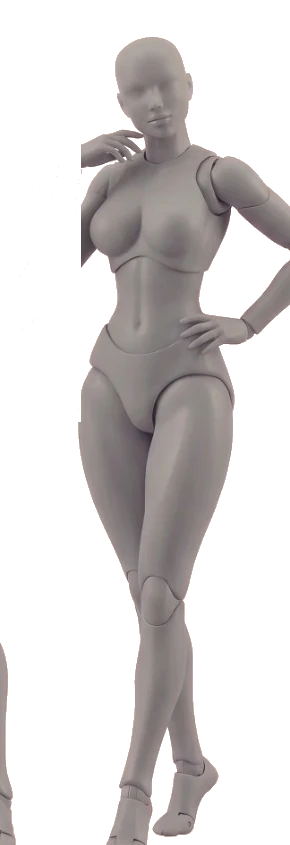
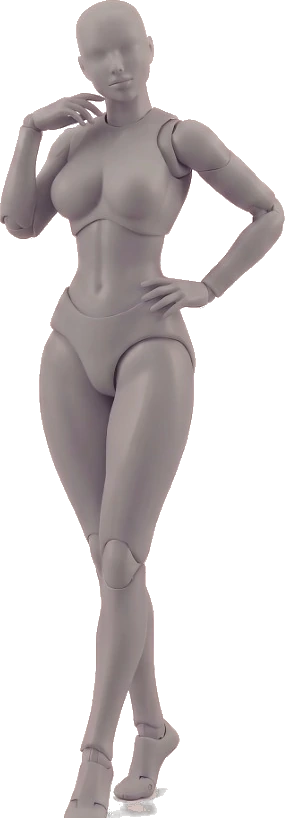
feat(atelier): update 'Tu Lienzo' title, remove stick-figure SVGs for 3D live viewer, and integrate defringed edge-perfect individual poses

diff --git a/index.html b/index.html
@@ -18,7 +18,7 @@
     <!-- Calendly Widget CSS -->
     <link href="https://assets.calendly.com/assets/external/widget.css" rel="stylesheet">
     <!-- Custom CSS -->
-    <link rel="stylesheet" href="styles.css?v=108">
+    <link rel="stylesheet" href="styles.css?v=109">
 </head>
 <body>
 
@@ -63,40 +63,20 @@
             <!-- Columna Izquierda: Visualizador (Avatar + Stats) -->
             <div class="gamified-visualizer">
                 <div class="visualizer-header">
-                    <h3>Tu Lienzo de Autor</h3>
+                    <h3>Tu Lienzo</h3>
                 </div>
                 
-                <!-- Avatar SVG Contours -->
+                <!-- Visualizador Anatómico 3D de Alta Fidelidad -->
                 <div class="avatar-container">
-                    <div class="avatar-tabs">
-                        <button class="avatar-tab active" data-gender="neutral">Neutro</button>
-                        <button class="avatar-tab" data-gender="female">Femenino</button>
-                        <button class="avatar-tab" data-gender="male">Masculino</button>
+                    <div class="avatar-tabs" id="mannequin-view-tabs">
+                        <button class="avatar-tab active" data-view="front">Frente</button>
+                        <button class="avatar-tab" data-view="back">Espalda</button>
+                        <button class="avatar-tab" data-view="left">Perfil Izq.</button>
+                        <button class="avatar-tab" data-view="right">Perfil Der.</button>
                     </div>
-                    <div class="avatar-svg-wrapper" id="avatar-svg-wrapper">
-                        <svg viewBox="0 0 300 350" class="avatar-svg" id="avatar-svg">
-                            <!-- FRONT VIEW -->
-                            <g class="svg-avatar-view front-view">
-                                <circle cx="80" cy="40" r="14" class="zone-path" data-zone="cabeza" />
-                                <path d="M 56,70 Q 80,66 104,70" class="zone-path" data-zone="hombro" />
-                                <path d="M 64,78 L 96,78 L 92,125 L 68,125 Z" class="zone-path fill-zone" data-zone="pecho" />
-                                <path d="M 68,127 L 92,127 L 88,170 L 72,170 Z" class="zone-path fill-zone" data-zone="costillas" />
-                                <path d="M 52,70 C 46,110 40,150 36,190" class="zone-path" data-zone="brazo" />
-                                <path d="M 108,70 C 114,110 120,150 126,190" class="zone-path" data-zone="brazo" />
-                                <path d="M 72,175 C 70,220 68,265 66,310" class="zone-path" data-zone="pierna" />
-                                <path d="M 88,175 C 90,220 92,265 94,310" class="zone-path" data-zone="pierna" />
-                            </g>
-                            <!-- BACK VIEW -->
-                            <g class="svg-avatar-view back-view">
-                                <circle cx="220" cy="40" r="14" class="zone-path" data-zone="cabeza" />
-                                <path d="M 196,70 Q 220,66 244,70" class="zone-path" data-zone="hombro" />
-                                <path d="M 204,78 L 236,78 L 230,170 L 210,170 Z" class="zone-path fill-zone" data-zone="espalda" />
-                                <path d="M 192,70 C 186,110 180,150 174,190" class="zone-path" data-zone="brazo" />
-                                <path d="M 248,70 C 254,110 260,150 266,190" class="zone-path" data-zone="brazo" />
-                                <path d="M 212,175 C 210,220 208,265 206,310" class="zone-path" data-zone="pierna" />
-                                <path d="M 228,175 C 230,220 232,265 234,310" class="zone-path" data-zone="pierna" />
-                            </g>
-                        </svg>
+                    <div class="mannequin-viewer-box" id="mannequin-viewer-box">
+                        <img src="images/mannequins/mannequin-male-front.webp" alt="Visualización Anatómica" class="mannequin-live-view" id="mannequin-live-view">
+                        <div class="mannequin-zone-glow" id="mannequin-zone-glow"></div>
                     </div>
                 </div>
                 
@@ -142,7 +122,7 @@
                                 <div class="silhouette-card" data-gender="male" id="card-silhouette-male">
                                     <div class="card-radio-indicator"></div>
                                     <div class="silhouette-img-wrapper">
-                                        <img src="images/mannequins/mannequin-male-front.webp" alt="Maniquí Masculino Cuerpo Completo" class="silhouette-mannequin-img">
+                                        <img src="images/mannequins/select-male.webp" alt="Maniquí Masculino Postura Confianza" class="silhouette-mannequin-img">
                                     </div>
                                     <h4 class="silhouette-name">Masculino</h4>
                                     <span class="silhouette-posture-tag">CONFIANZA</span>
@@ -153,7 +133,7 @@
                                 <div class="silhouette-card" data-gender="female" id="card-silhouette-female">
                                     <div class="card-radio-indicator"></div>
                                     <div class="silhouette-img-wrapper">
-                                        <img src="images/mannequins/mannequin-female-front.webp" alt="Maniquí Femenino Cuerpo Completo" class="silhouette-mannequin-img">
+                                        <img src="images/mannequins/select-female.webp" alt="Maniquí Femenino Postura Elegancia" class="silhouette-mannequin-img">
                                     </div>
                                     <h4 class="silhouette-name">Femenino</h4>
                                     <span class="silhouette-posture-tag">ELEGANCIA</span>
@@ -164,7 +144,7 @@
                                 <div class="silhouette-card" data-gender="neutral" id="card-silhouette-neutral">
                                     <div class="card-radio-indicator"></div>
                                     <div class="silhouette-img-wrapper">
-                                        <img src="images/mannequins/mannequin-neutral-front.webp" alt="Maniquí No Binario / Neutro Cuerpo Completo" class="silhouette-mannequin-img">
+                                        <img src="images/mannequins/select-neutral.webp" alt="Maniquí No Binario / Neutro Postura Equilibrio" class="silhouette-mannequin-img">
                                     </div>
                                     <h4 class="silhouette-name">No Binario / Neutro</h4>
                                     <span class="silhouette-posture-tag">EQUILIBRIO</span>
@@ -1631,6 +1611,6 @@
     <!-- Calendly Widget JS -->
     <script type="text/javascript" src="https://assets.calendly.com/assets/external/widget.js"></script>
     <!-- Custom JS -->
-    <script src="script.js?v=108"></script>
+    <script src="script.js?v=109"></script>
 </body>
 </html>

diff --git a/script.js b/script.js
@@ -1524,15 +1524,18 @@ document.addEventListener('DOMContentLoaded', () => {
         });
     }
 
-    // Swap SVG contours based on selected gender
+    let currentMannequinView = 'front';
+
+    function updateLiveMannequin() {
+        const liveImg = document.getElementById('mannequin-live-view');
+        if (!liveImg) return;
+        const g = gameState.gender || 'male';
+        liveImg.src = `images/mannequins/mannequin-${g}-${currentMannequinView}.webp`;
+    }
+
+    // Swap 3D Mannequin based on selected gender
     function swapAvatarSilhouette(gender) {
-        const svgWrapper = document.getElementById('avatar-svg-wrapper');
-        if (!svgWrapper) return;
-
         gameState.gender = gender;
-
-        // Render template
-        svgWrapper.innerHTML = SVG_TEMPLATES[gender] || SVG_TEMPLATES['neutral'];
 
         // Update stats
         const statSil = document.getElementById('stat-silhouette');
@@ -1540,20 +1543,8 @@ document.addEventListener('DOMContentLoaded', () => {
             statSil.textContent = gender === 'neutral' ? 'No Binario / Neutro' : (gender === 'female' ? 'Femenino' : 'Masculino');
         }
 
-        // Re-bind events on new SVG elements
-        bindAvatarEvents();
-        
-        // If a zone was previously selected, re-highlight it
-        if (gameState.zone) {
-            const svg = document.getElementById('avatar-svg');
-            if (svg) {
-                svg.querySelectorAll('.zone-path').forEach(p => {
-                    if (p.getAttribute('data-zone') === gameState.zone) {
-                        p.classList.add('active');
-                    }
-                });
-            }
-        }
+        // Update 3D viewer
+        updateLiveMannequin();
     }
 
     // Bind Phase 1 to 5 Navigation
@@ -1778,22 +1769,16 @@ document.addEventListener('DOMContentLoaded', () => {
         });
     });
 
-    // Avatar tabs binding (Silhouettes switch)
-    const avatarTabBtns = document.querySelectorAll('.avatar-tab');
-    avatarTabBtns.forEach(btn => {
+    // 360 Mannequin View Tabs Binding (Frente, Espalda, Perfiles)
+    const mannequinViewTabs = document.querySelectorAll('#mannequin-view-tabs .avatar-tab');
+    mannequinViewTabs.forEach(btn => {
         btn.addEventListener('click', () => {
-            avatarTabBtns.forEach(b => b.classList.remove('active'));
+            mannequinViewTabs.forEach(b => b.classList.remove('active'));
             btn.classList.add('active');
             
-            const gender = btn.getAttribute('data-gender');
-            
-            // Sync with select field in Fase 1
-            const sexSelect = document.getElementById('game-sex');
-            if (sexSelect) {
-                sexSelect.value = gender;
-            }
-            
-            swapAvatarSilhouette(gender);
+            const view = btn.getAttribute('data-view') || 'front';
+            currentMannequinView = view;
+            updateLiveMannequin();
         });
     });
 

diff --git a/styles.css b/styles.css
@@ -4005,3 +4005,36 @@ body.game-active {
     letter-spacing: 1px;
 }
 
+/* Visualizador Anatómico 3D de Alta Fidelidad (Tu Lienzo) */
+.mannequin-viewer-box {
+    width: 100%;
+    min-height: 380px;
+    display: flex;
+    align-items: center;
+    justify-content: center;
+    position: relative;
+    background: radial-gradient(circle at center, rgba(255, 255, 255, 0.04) 0%, rgba(0, 0, 0, 0.5) 85%);
+    border: 1px solid rgba(255, 255, 255, 0.08);
+    border-radius: 16px;
+    padding: 20px 15px;
+    margin-top: 14px;
+    overflow: hidden;
+}
+
+.mannequin-live-view {
+    max-height: 350px;
+    width: auto;
+    max-width: 100%;
+    object-fit: contain;
+    filter: drop-shadow(0 12px 25px rgba(0, 0, 0, 0.95));
+    transition: all 0.35s cubic-bezier(0.16, 1, 0.3, 1);
+}
+
+.mannequin-zone-glow {
+    position: absolute;
+    inset: 0;
+    pointer-events: none;
+    border-radius: 16px;
+    transition: all 0.3s ease;
+}
+
